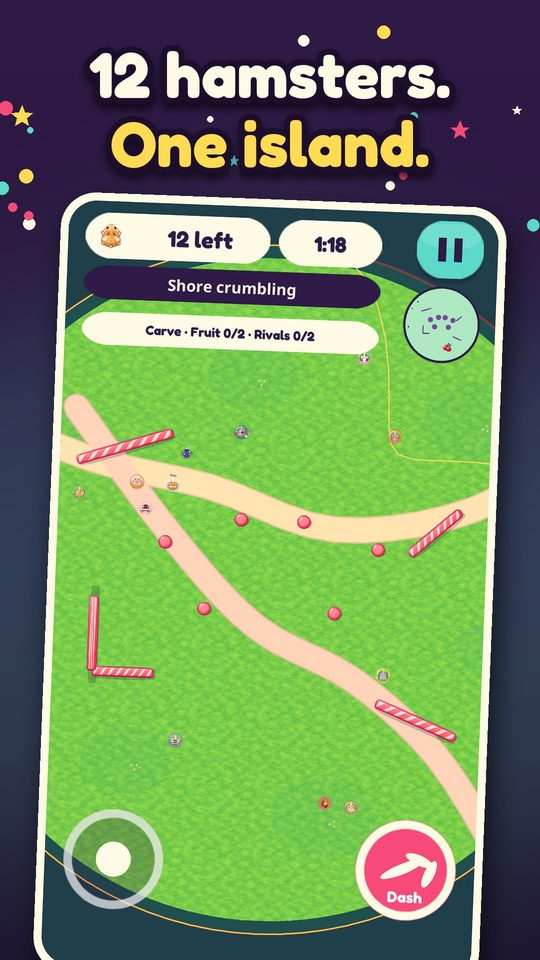
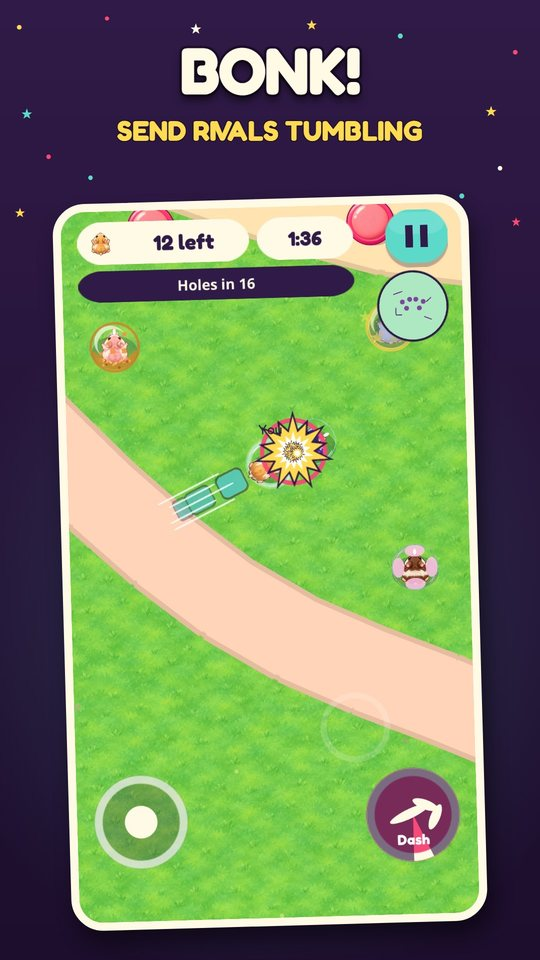
Show the charged dash, skills and star grabbing on the Hamster Bounce page
New bright icon, copy for hold-to-charge, the Boom/Stone/Float skill button and Free Roam stars that count on touch, and seven new screenshots from 0.1.8. Nests, Carve/Rush and the Spark Acorn are gone from the page.

diff --git a/hamster-bounce/index.html b/hamster-bounce/index.html
@@ -4,9 +4,9 @@
 <meta charset="utf-8">
 <meta name="viewport" content="width=device-width, initial-scale=1">
 <title>Hamster Bounce</title>
-<meta name="description" content="Dash, bump and knock 11 hamster rivals into the holes. Last one rolling wins! A game for Android by ivanvyd games.">
+<meta name="description" content="Hold to charge, bonk 11 hamster rivals into the holes and grab Boom, Stone and Float skills. Last one rolling wins! A game for Android by ivanvyd games.">
 <meta property="og:title" content="Hamster Bounce">
-<meta property="og:description" content="Dash, bump and knock 11 hamster rivals into the holes. Last one rolling wins!">
+<meta property="og:description" content="Hold to charge, bonk your rivals into the holes and grab Boom, Stone and Float skills. Last one rolling wins!">
 <meta property="og:image" content="https://ivanvyd.github.io/hamster-bounce/img/feature.jpg">
 <meta property="og:type" content="website">
 <link rel="icon" href="img/icon.png">
@@ -68,7 +68,7 @@ footer nav { display: flex; flex-wrap: wrap; gap: 8px 20px; margin-bottom: 12px;
   <div class="wrap hero">
     <div>
       <h1>Hamster Bounce</h1>
-      <p class="lead">Dash, bump and knock 11 hamster rivals into the holes. Last one rolling wins!</p>
+      <p class="lead">Hold to charge, bonk 11 hamster rivals into the holes and grab skills that blast, harden or float. Last one rolling wins!</p>
       <span class="status">Coming soon to Google Play</span>
     </div>
     <figure><img src="img/feature.jpg" width="1024" height="500" alt="Hamster Bounce: a hamster in a clear ball rolling across a candy island, with the line &quot;Last hamster rolling wins!&quot;"></figure>
@@ -77,13 +77,13 @@ footer nav { display: flex; flex-wrap: wrap; gap: 8px 20px; margin-bottom: 12px;
   <section class="wrap" aria-labelledby="shots-title">
     <h2 id="shots-title">Take a look</h2>
     <div class="shots" tabindex="0" aria-label="Screenshots, scroll sideways">
-      <img src="img/shot-1.jpg" width="540" height="960" loading="lazy" alt="Main menu: Bump. Dash. Survive.">
-      <img src="img/shot-2.jpg" width="540" height="960" loading="lazy" alt="Twelve hamsters on one island.">
-      <img src="img/shot-3.jpg" width="540" height="960" loading="lazy" alt="The island is falling apart.">
-      <img src="img/shot-4.jpg" width="540" height="960" loading="lazy" alt="Dash into your rivals.">
-      <img src="img/shot-5.jpg" width="540" height="960" loading="lazy" alt="Open gifts. Find 60 looks.">
-      <img src="img/shot-6.jpg" width="540" height="960" loading="lazy" alt="Every gift is a surprise: a new Legendary look.">
-      <img src="img/shot-7.jpg" width="540" height="960" loading="lazy" alt="Last hamster rolling wins.">
+      <img src="img/shot-1.jpg" width="540" height="960" loading="lazy" alt="Hold, then bonk: a hamster charges its dash, with a charge ring and a bold aim arrow.">
+      <img src="img/shot-2.jpg" width="540" height="960" loading="lazy" alt="Bonk! A charged dash hits a rival with a big impact star.">
+      <img src="img/shot-3.jpg" width="540" height="960" loading="lazy" alt="Boom, Stone and Float skill bubbles on the island, and each skill ready on the skill button.">
+      <img src="img/shot-4.jpg" width="540" height="960" loading="lazy" alt="Don't fall: a hamster floats on a balloon over a hole in the crumbling island.">
+      <img src="img/shot-5.jpg" width="540" height="960" loading="lazy" alt="Grab stars: a star flies up from a touched star charm in Free Roam.">
+      <img src="img/shot-6.jpg" width="540" height="960" loading="lazy" alt="Over 50 looks: hamsters, balls and trails in the collection.">
+      <img src="img/shot-7.jpg" width="540" height="960" loading="lazy" alt="One winner: the last hamster rolling wins the round.">
     </div>
   </section>
 
@@ -96,14 +96,19 @@ footer nav { display: flex; flex-wrap: wrap; gap: 8px 20px; margin-bottom: 12px;
         <p>The ground cracks, flashes a warning, then drops away. Bounce off the bumpers, stay off the edge and be the last hamster rolling.</p>
       </article>
       <article class="card">
-        <span class="tag" style="background: var(--aqua)">Free Roam</span>
-        <h3>Carry the treasure</h3>
-        <p>Fell in? Roll straight back. Grab treasure charms and carry them to a nest to bank Stars before you drop them.</p>
+        <span class="tag" style="background: var(--lemon)">Dash</span>
+        <h3>Hold for a big bonk</h3>
+        <p>Hold the Dash button to charge. The longer you hold, the harder and farther your bonk sends a rival tumbling. A quick tap is a quick nudge.</p>
       </article>
       <article class="card">
-        <span class="tag" style="background: var(--lemon)">Dash</span>
-        <h3>Pick your dash</h3>
-        <p>Roll into Carve to turn hard without losing speed, or into Rush to launch farther. A Spark Acorn reloads your dash.</p>
+        <span class="tag" style="background: #ffb36b">Skills</span>
+        <h3>Boom, Stone, Float</h3>
+        <p>Roll into a skill bubble and fire it with the skill button when the moment is right. Boom pushes everyone away, Stone makes you impossible to push, and Float carries you over the holes.</p>
+      </article>
+      <article class="card">
+        <span class="tag" style="background: var(--aqua)">Free Roam</span>
+        <h3>Grab every star</h3>
+        <p>Fell in? Roll straight back. Every star you touch counts right away, so there is nothing to carry and nothing to drop.</p>
       </article>
       <article class="card">
         <span class="tag" style="background: #d8cdf5">Looks</span>
